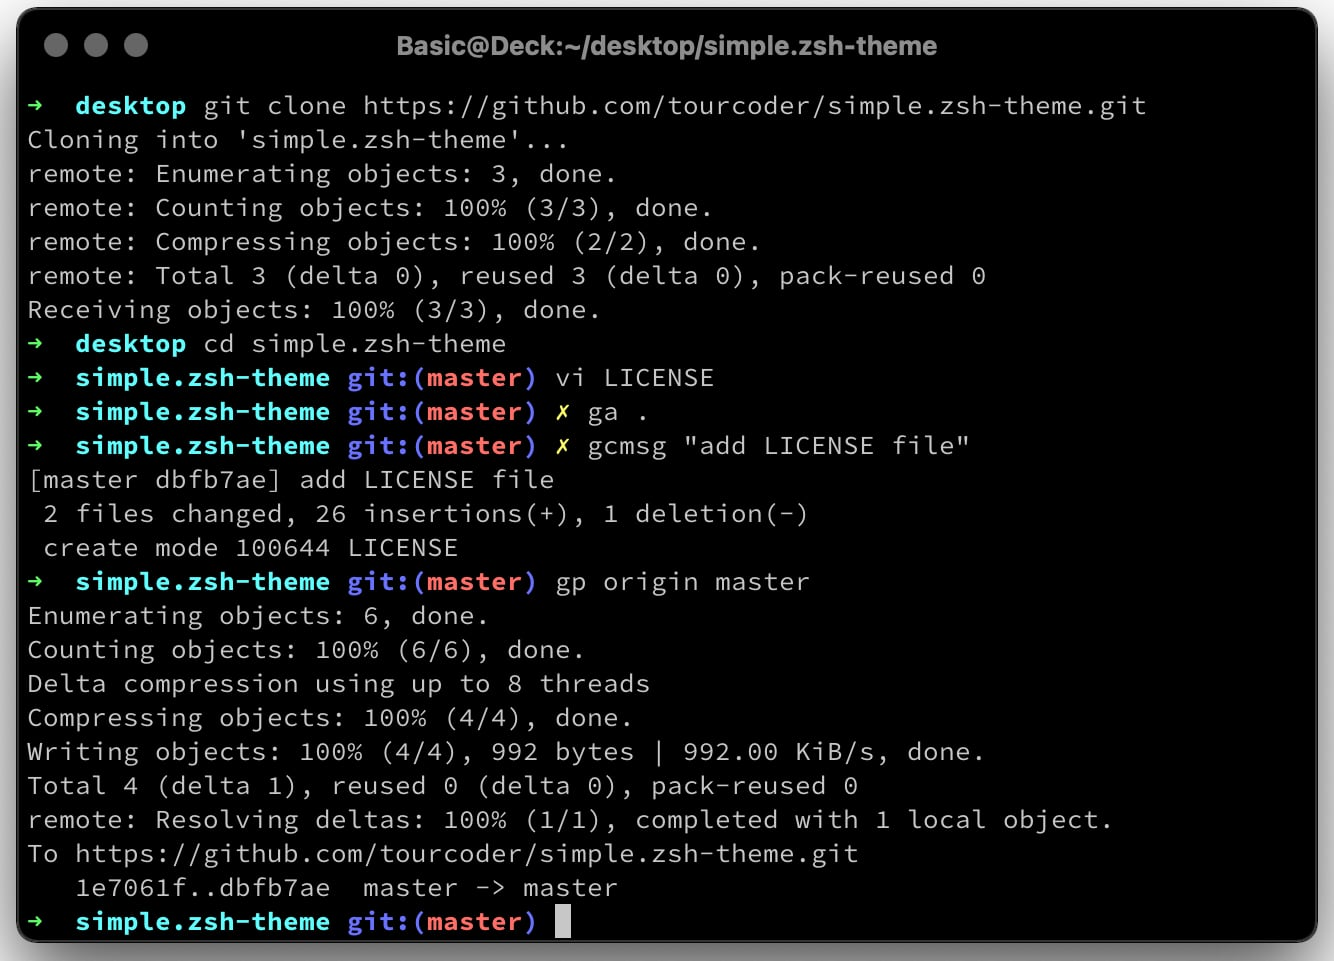
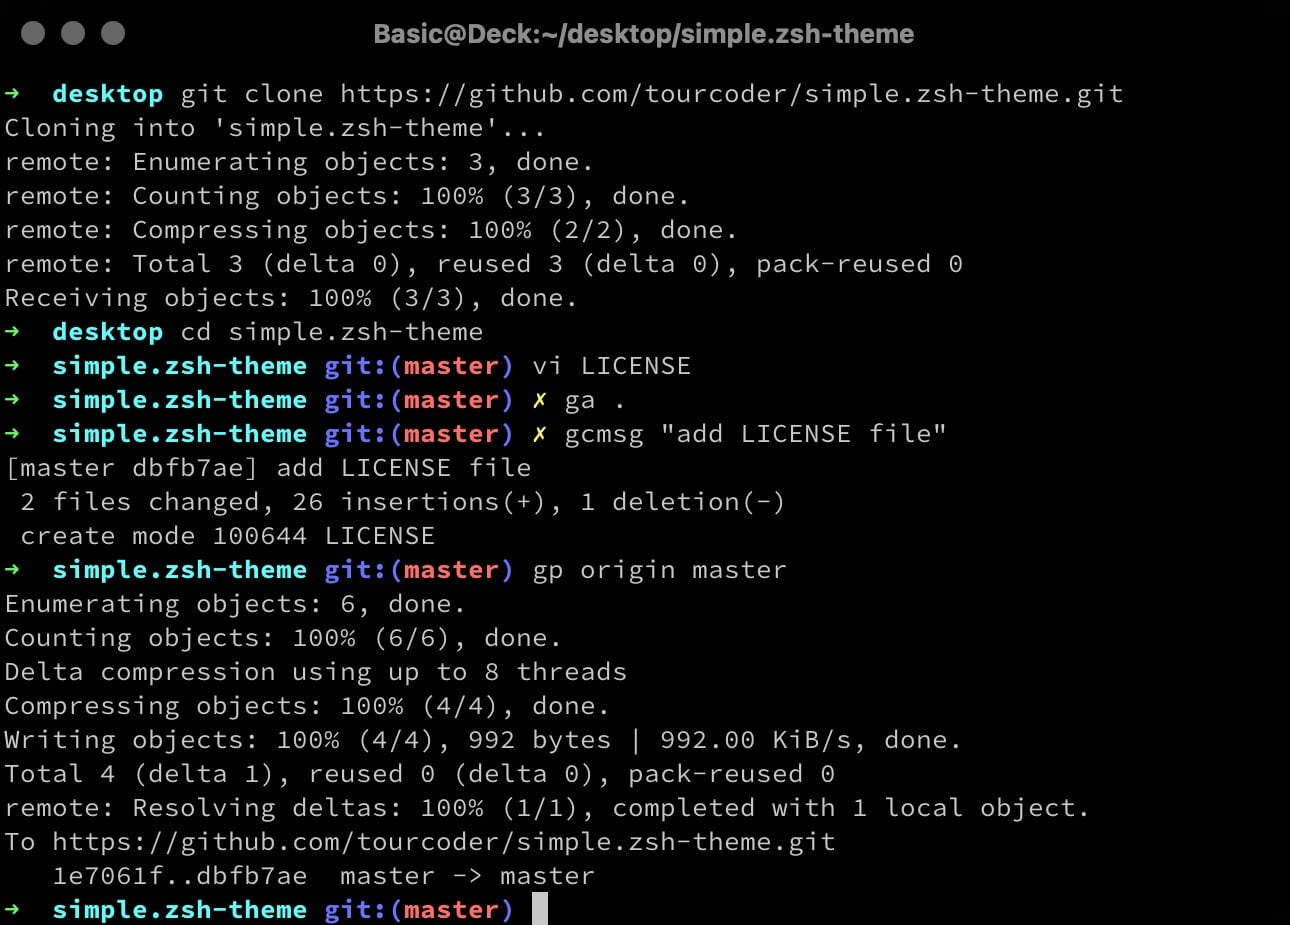
udpate README.md & screenshot.jpg

Changed region(s): [[0.0, 0.0, 1.0, 1.0], [0.6822, 0.8476, 0.8372, 0.8778]]

diff --git a/README.md b/README.md
@@ -49,7 +49,7 @@ My ohmyzsh theme
 
 - Font Size: 13
 
-### Screenshot
+#### Screenshot
 
 ![](screenshot.jpg)
 
